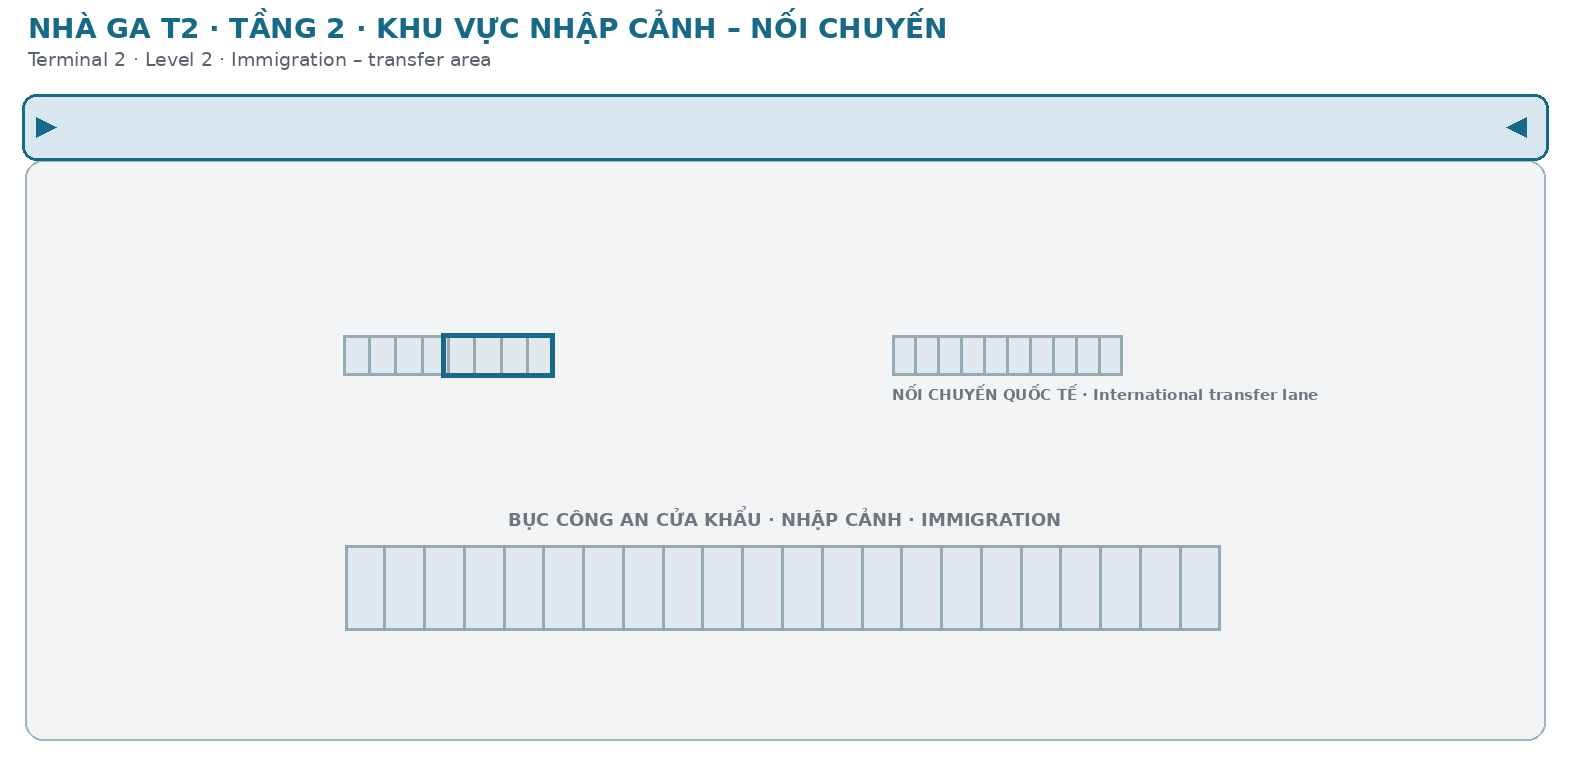
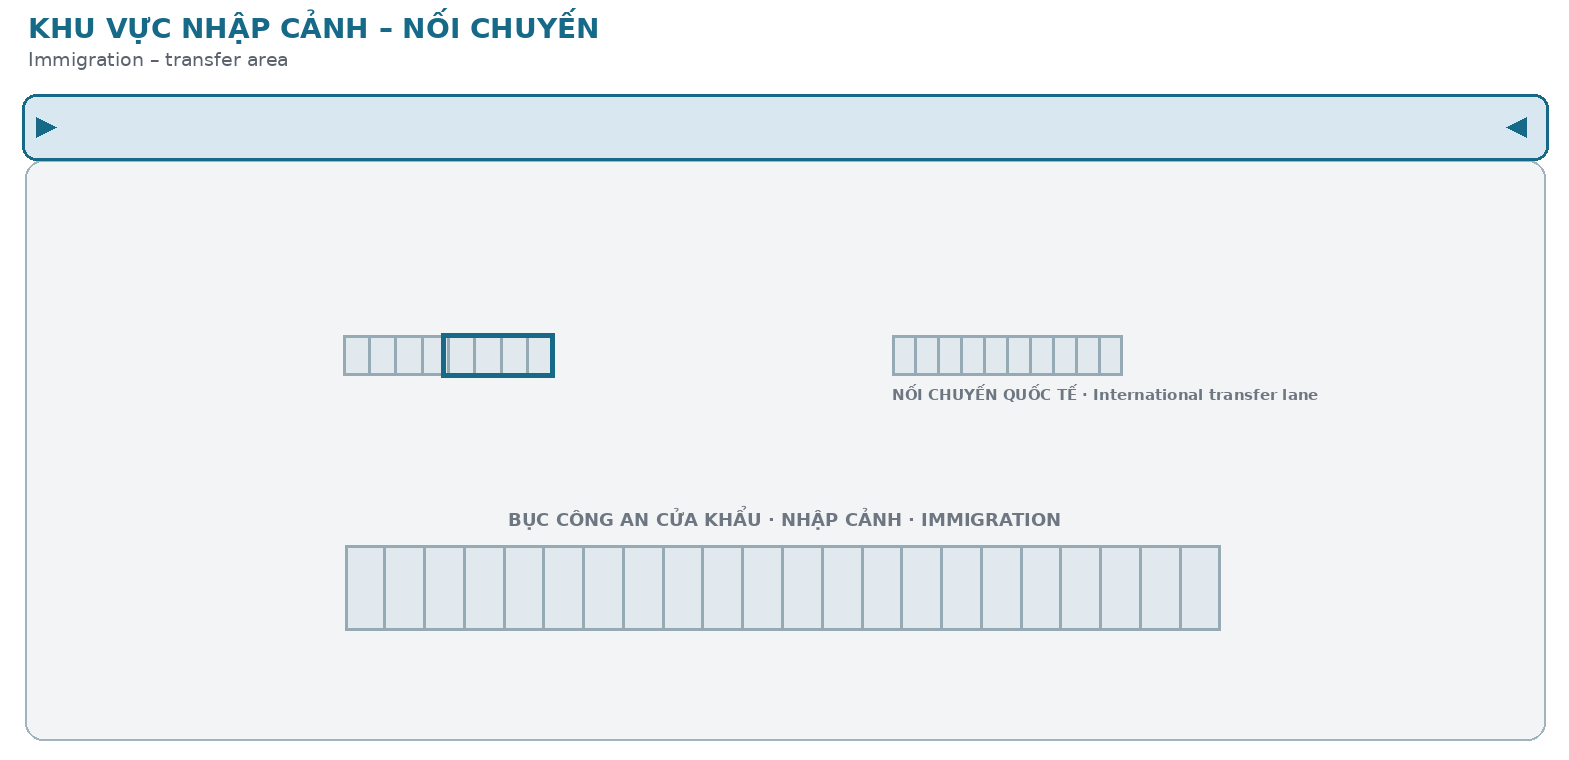
Cap nhat noi dung

Changed region(s): [[0.0, 0.0, 0.6246, 0.0908]]

diff --git a/sw.js b/sw.js
@@ -1,1 +1,1 @@
-if(!self.define){let e,n={};const i=(i,o)=>(i=new URL(i+".js",o).href,n[i]||new Promise(n=>{if("document"in self){const e=document.createElement("script");e.src=i,e.onload=n,document.head.appendChild(e)}else e=i,importScripts(i),n()}).then(()=>{let e=n[i];if(!e)throw new Error(`Module ${i} didn’t register its module`);return e}));self.define=(o,s)=>{const c=e||("document"in self?document.currentScript.src:"")||location.href;if(n[c])return;let r={};const a=e=>i(e,c),d={module:{uri:c},exports:r,require:a};n[c]=Promise.all(o.map(e=>d[e]||a(e))).then(e=>(s(...e),r))}}define(["./workbox-9e0cfdd6"],function(e){"use strict";self.skipWaiting(),e.clientsClaim(),e.precacheAndRoute([{url:"manifest.json",revision:"04715520d4bdbe12ac1fe0ef9a5e6c8a"},{url:"index.html",revision:"dae1ed10513c3713d9cbe5c8aa9ae316"},{url:"map/t2-noi-chuyen-qt-qt.png",revision:"92bbce650d9a0d26604afa39db96b397"},{url:"map/t2-l2-noi-chuyen.png",revision:"b63dd5f122574ff77dc53d5839090ae9"},{url:"map/t2-khu-noi-chuyen.truoc-ve-tay.png",revision:"d506c9ff9ec5b7a7556d3b7ca7a62443"},{url:"map/t2-khu-noi-chuyen.truoc-nen-xanh.png",revision:"afa1325519625f745b262d86d5504029"},{url:"map/t2-khu-noi-chuyen.truoc-bo-quay.png",revision:"6a3794443adcef3c4e07cadd66193851"},{url:"map/t2-khu-noi-chuyen.png",revision:"ef744b713e7025cc9845af174ec7ebb2"},{url:"map/t2-ga-den.png",revision:"1935ee08b253474e0dddd6dd300eaf47"},{url:"map/t2-departure.png",revision:"04ee0c56f20522ca06938a71f9fbb709"},{url:"map/t1-t2-qt-nd.png",revision:"9d6993093605993307db60b0380e1f02"},{url:"map/t1-t2-noi-chuyen.png",revision:"5cd610c697ff6740eb52aa59cd9571df"},{url:"map/t1-l1-arrivals.svg",revision:"2c6323c0f7ffc9eed3c9691eb909c188"},{url:"map/t1-l1-arrivals.png",revision:"2617bb8c54cba57c5ad8324d6c02e5b5"},{url:"map/t1-gates.svg",revision:"5fdb8aeb589fabb81d8b116342093046"},{url:"map/t1-gates.png",revision:"a7a1185776e47a518f7eec9f7774c56e"},{url:"icons/icon-512.png",revision:"e10052c2ca4830e706ba55ba90002ce6"},{url:"icons/icon-192.png",revision:"5470cd9958be5f58c83565b5ba1a3027"},{url:"content/touchpoints.json",revision:"7ed2e2fb7b115c214370f15b963a9772"},{url:"content/survey.json",revision:"478d69f0614df2ddf47998c8155464e4"},{url:"content/settings.json",revision:"8d52e4f3429d3c6e4df21c047a039dff"},{url:"content/rules.json",revision:"9d41a4685fd972bdd71626ddf46b327b"},{url:"content/routes.json",revision:"7df057f7d9829620ad55f463e1516747"},{url:"content/notices.json",revision:"d751713988987e9331980363e24189ce"},{url:"content/map_points.json",revision:"bc0f9179c5620845cebb4630f46d0356"},{url:"content/maps.json",revision:"de385997102af6db11b7795329712bb9"},{url:"content/labels.json",revision:"aa9d62368eb72c8d5f4bea72311556d9"},{url:"content/intents.json",revision:"483ca8ce80d7ad7b05c319629a8789ad"},{url:"content/guides.json",revision:"f7109624e7c8b32d44030cbcf9274dd5"},{url:"content/flights.json",revision:"3ba6d7fd5b090a3f324a1d2854f79beb"},{url:"brand/lotus-gold.svg",revision:"2eb29c4798f87337f664cc01ffdbec78"},{url:"brand/logo-vna.svg",revision:"92652542bd640ed570b738850ecba742"},{url:"assets/workbox-window.prod.es5-BBnX5xw4.js",revision:null},{url:"assets/index-DCZX6CBQ.js",revision:null},{url:"assets/index-BjMp5PyW.css",revision:null},{url:"brand/logo-vna.svg",revision:"92652542bd640ed570b738850ecba742"},{url:"brand/lotus-gold.svg",revision:"2eb29c4798f87337f664cc01ffdbec78"},{url:"icons/icon-192.png",revision:"5470cd9958be5f58c83565b5ba1a3027"},{url:"icons/icon-512.png",revision:"e10052c2ca4830e706ba55ba90002ce6"}],{}),e.cleanupOutdatedCaches(),e.registerRoute(new e.NavigationRoute(e.createHandlerBoundToURL("index.html"))),e.registerRoute(({url:e})=>e.pathname.startsWith("/api/flights"),new e.NetworkFirst({cacheName:"flights",plugins:[new e.ExpirationPlugin({maxAgeSeconds:60})]}),"GET"),e.registerRoute(({url:e})=>e.pathname.startsWith("/content/")||e.pathname.startsWith("/images/"),new e.StaleWhileRevalidate({cacheName:"content",plugins:[new e.ExpirationPlugin({maxAgeSeconds:86400})]}),"GET")});
+if(!self.define){let e,n={};const i=(i,o)=>(i=new URL(i+".js",o).href,n[i]||new Promise(n=>{if("document"in self){const e=document.createElement("script");e.src=i,e.onload=n,document.head.appendChild(e)}else e=i,importScripts(i),n()}).then(()=>{let e=n[i];if(!e)throw new Error(`Module ${i} didn’t register its module`);return e}));self.define=(o,c)=>{const s=e||("document"in self?document.currentScript.src:"")||location.href;if(n[s])return;let r={};const d=e=>i(e,s),a={module:{uri:s},exports:r,require:d};n[s]=Promise.all(o.map(e=>a[e]||d(e))).then(e=>(c(...e),r))}}define(["./workbox-9e0cfdd6"],function(e){"use strict";self.skipWaiting(),e.clientsClaim(),e.precacheAndRoute([{url:"manifest.json",revision:"04715520d4bdbe12ac1fe0ef9a5e6c8a"},{url:"index.html",revision:"dae1ed10513c3713d9cbe5c8aa9ae316"},{url:"map/t2-noi-chuyen-qt-qt.png",revision:"92bbce650d9a0d26604afa39db96b397"},{url:"map/t2-l2-noi-chuyen.png",revision:"b63dd5f122574ff77dc53d5839090ae9"},{url:"map/t2-khu-noi-chuyen.truoc-ve-tay.png",revision:"d506c9ff9ec5b7a7556d3b7ca7a62443"},{url:"map/t2-khu-noi-chuyen.truoc-nen-xanh.png",revision:"afa1325519625f745b262d86d5504029"},{url:"map/t2-khu-noi-chuyen.truoc-bo-quay.png",revision:"6a3794443adcef3c4e07cadd66193851"},{url:"map/t2-khu-noi-chuyen.png",revision:"264e6c7d9bbe412a5f172170d878a9c8"},{url:"map/t2-ga-den.png",revision:"1935ee08b253474e0dddd6dd300eaf47"},{url:"map/t2-departure.png",revision:"04ee0c56f20522ca06938a71f9fbb709"},{url:"map/t1-t2-qt-nd.png",revision:"9d6993093605993307db60b0380e1f02"},{url:"map/t1-t2-noi-chuyen.png",revision:"5cd610c697ff6740eb52aa59cd9571df"},{url:"map/t1-l1-arrivals.svg",revision:"2c6323c0f7ffc9eed3c9691eb909c188"},{url:"map/t1-l1-arrivals.png",revision:"2617bb8c54cba57c5ad8324d6c02e5b5"},{url:"map/t1-gates.svg",revision:"5fdb8aeb589fabb81d8b116342093046"},{url:"map/t1-gates.png",revision:"a7a1185776e47a518f7eec9f7774c56e"},{url:"icons/icon-512.png",revision:"e10052c2ca4830e706ba55ba90002ce6"},{url:"icons/icon-192.png",revision:"5470cd9958be5f58c83565b5ba1a3027"},{url:"content/touchpoints.json",revision:"7ed2e2fb7b115c214370f15b963a9772"},{url:"content/survey.json",revision:"478d69f0614df2ddf47998c8155464e4"},{url:"content/settings.json",revision:"8d52e4f3429d3c6e4df21c047a039dff"},{url:"content/rules.json",revision:"9d41a4685fd972bdd71626ddf46b327b"},{url:"content/routes.json",revision:"7df057f7d9829620ad55f463e1516747"},{url:"content/notices.json",revision:"d751713988987e9331980363e24189ce"},{url:"content/map_points.json",revision:"bc0f9179c5620845cebb4630f46d0356"},{url:"content/maps.json",revision:"c61ab8a51c3026da2145f2ce5e33bf26"},{url:"content/labels.json",revision:"aa9d62368eb72c8d5f4bea72311556d9"},{url:"content/intents.json",revision:"483ca8ce80d7ad7b05c319629a8789ad"},{url:"content/guides.json",revision:"f7109624e7c8b32d44030cbcf9274dd5"},{url:"content/flights.json",revision:"915e5ef727064d16dd0f641ed6a3ce67"},{url:"brand/lotus-gold.svg",revision:"2eb29c4798f87337f664cc01ffdbec78"},{url:"brand/logo-vna.svg",revision:"92652542bd640ed570b738850ecba742"},{url:"assets/workbox-window.prod.es5-BBnX5xw4.js",revision:null},{url:"assets/index-DCZX6CBQ.js",revision:null},{url:"assets/index-BjMp5PyW.css",revision:null},{url:"brand/logo-vna.svg",revision:"92652542bd640ed570b738850ecba742"},{url:"brand/lotus-gold.svg",revision:"2eb29c4798f87337f664cc01ffdbec78"},{url:"icons/icon-192.png",revision:"5470cd9958be5f58c83565b5ba1a3027"},{url:"icons/icon-512.png",revision:"e10052c2ca4830e706ba55ba90002ce6"}],{}),e.cleanupOutdatedCaches(),e.registerRoute(new e.NavigationRoute(e.createHandlerBoundToURL("index.html"))),e.registerRoute(({url:e})=>e.pathname.startsWith("/api/flights"),new e.NetworkFirst({cacheName:"flights",plugins:[new e.ExpirationPlugin({maxAgeSeconds:60})]}),"GET"),e.registerRoute(({url:e})=>e.pathname.startsWith("/content/")||e.pathname.startsWith("/images/"),new e.StaleWhileRevalidate({cacheName:"content",plugins:[new e.ExpirationPlugin({maxAgeSeconds:86400})]}),"GET")});
